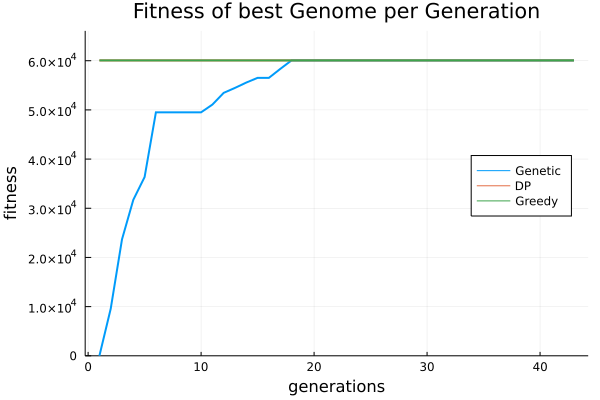
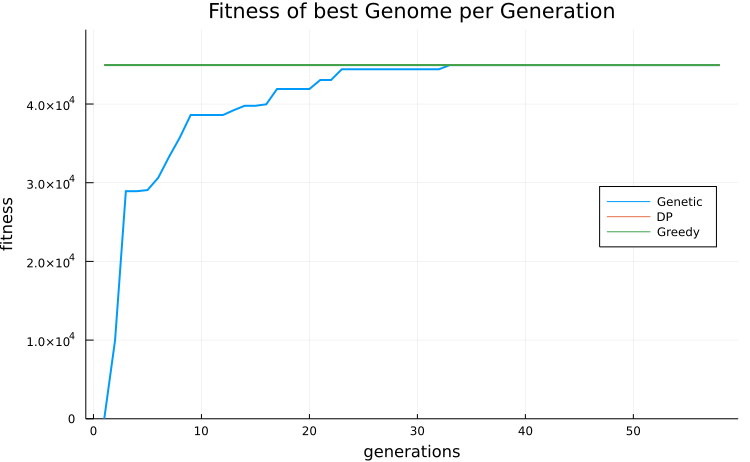
documentation fix, readme+experiments finished

diff --git a/README.md b/README.md
@@ -1,2 +1,153 @@
-# 0-1-Knapsack-Genetic-Algorithms
-Solves the 0-1 knapsack problem using genetic algorithms
+# Genetic Algorithms for the Discrete (0-1) Knapsack Problem
+
+The goal of this repository is to explore and implement in [Julia](https://julialang.org/) a [Genetic Algorithm](https://en.wikipedia.org/wiki/Genetic_algorithm), a subclass of [Evolutionary Algorithms](https://en.wikipedia.org/wiki/Evolutionary_algorithm), that will be used to find a good solution for the [Discrete (0-1) Knapsack problem](https://en.wikipedia.org/wiki/Knapsack_problem#0-1_knapsack_problem). Other approaches ([Brute Force](https://en.wikipedia.org/wiki/Proof_by_exhaustion), [Greedy](https://en.wikipedia.org/wiki/Greedy_algorithm), [Dynamic Programming](https://en.wikipedia.org/wiki/Dynamic_programming)) habe also been implemented in order to set a benchmark for the results of the Genetic algorithm.
+<br> </br>
+
+
+## A little bit about the Problem
+
+The "0-1 Knapsack" problem is an [Integer Programming](https://en.wikipedia.org/wiki/Integer_programming) optimization problem, restricted to the domain {0, 1}. Formally, given n items, their corresponding "weights" **w**, "values" **v** and a "knapsack capacity" W, the goal is to find a binary vector **x** that solves:
+
+maximize **x**<sup>T</sup>**v**
+
+subject to **x**<sup>T</sup>**w** <= W
+
+That is, to choose the items which the sum of their weights does not exceed the knapsack capacity W and simulteanously maximize the total value.
+<br> </br>
+
+
+## Genetic algorithm
+
+The main idea behind Genetic Algorithms is to simulate the process of Natural Selection. An initial population consisting of candidate solutions is created, and then through
+
+- Selection of the fittest
+- Crossovers
+- Mutations
+
+the population gets updated so that every new generation inherits features from the fit candidates,
+those with the highest fitness (score). In the 0-1 Knapsack problem, the fitness of a solution is 0 if the solution is invalid (exceeds knapsack capacity), else the sum of the values selected by it.
+
+The very nature of the Knapsack problem allows us to frame a genome (candidate solution) as a binary vector, which comes in as very handy for the processes mentioned above.
+
+There are many approaches to genetic algorithms, some of them discussed here
+- [Improvements in Genetic Algorithms](https://www.researchgate.net/publication/3102588_Improvements_in_Genetic_Algorithms)
+- [Genetic algorithms with multi-parent recombination](https://www.researchgate.net/publication/220701605_Genetic_algorithms_with_multi-parent_recombination)
+
+The key concept, which has also been [implemented](src/algorithms/genetic.jl) in this repo, is the idea of [Elitism](https://en.wikipedia.org/wiki/Genetic_algorithm#Elitism). Elitism suggets that a fraction of the fittest genomes should survive "as is" in the next generation. This allows for more valid candidate solutions to be propagated in the population, thus reducing the amount of the invalid ones. We will see later the differences in results.
+<br> </br>
+
+### Hyperparameters of the Genetic Algorithm
+
+- *Population Size*: The number of genomes that make up the whole population.
+- *Initialize with zeros*: True if the bits of all the genomes should be initialized to 0. Else they get initialized randomly (unstable for high weights).
+- *Max Generations*: The number of iterations to perform (can be shortened by using Early Stopping).
+- *Threshold*: Used for early stopping; Denotes the minimum value which the best fitness should increase to be considered as progress.
+- *Patience*: Used for early stopping. The number of generations (iterations) to wait for progress. If achieved, then the algorithm stops.
+- *Elitism Amount*: The number of genomes that pass to the next generation, remaining untouched.
+- *Number of Mutations*: The number of genome mutations to perform in mutation step.
+- *Mutation Probability*: The probability that a bit of a genome gets mutated during the mutation step, if selected.
+<br> </br>
+
+
+## Other approaches
+
+- [Brute force](src/algorithms/brute_force.jl)
+    
+    Enumerate all the possible solutions. There are n items totally, where each can either be selected or not. Thus, there are 2 possibilities for every item, giving an exponential
+    complexity: O(2<sup>n</sup>).
+
+- [Greedy](src/algorithms/greedy.jl)
+
+    Sort all items by the key: weight/value in a descending order. Then start picking the items
+    in an ascending order, until there is no more space in the knapsack or the items have finished.
+    The complexity of this algorithm is: O(nlon) (because of the sorting). Note that this algorithm
+    will give always the best solution for continuous (fractional) Knapsack problem. In the discrete, it will only give an approximation.
+
+- [Dynamic Programming](src/algorithms/dynamic_programming.jl)
+
+    The 0-1 Knapsack problem has 2 properties that allow it to be solved using DP methods:
+
+    - Optimal substructure
+    - Independent sub-problems
+
+    Using an optimal solution for the problem with (n-1) items and all the weights up to W, we can quickly dedude the optimal solution for the problem with n items using the formula:
+
+    OPT(n, W) = max(OPT(n-1, W - weight[n]) + value[n], OPT(n-1, W))
+
+    The complexity of this algorithm is O(nW).
+<br> </br>
+
+
+## Experiments
+
+Firstly, let's get a taste of how slow the Brute-Force search is:
+<p align="center">
+  <img src="plots/bf_knapsack_runtime.png"/>
+</p>
+
+Yeap, no need to explain.
+
+Let's now see the runtime of the Greedy, DP and Genetic-Algorithm methods, for W = 10000:
+<p align="center">
+  <img src="plots/dp_vs_genetic_knapsack_runtime.png"/>
+</p>
+As the number of items increase, DP gets progressiively slower. The greedy method is the fastest by far, while the genetic-algorithm slowly decreases it's performance over time.
+<br> </br>
+
+Regarding the accuracies of the solutions found:
+<p align="center">
+  <img src="plots/greedy_dp_genetic_knapsack_score_accuracy.png"/>
+</p>
+The greedy algorithm does a good job at finding almost-optimal solutions. The genetic algorithm struggles as the number of items increases. This is to be expected, as
+the population size was constant throughout all these experiments (1000). Increasing it would decrease speed, but increase accuracy over larger inputs.
+<br> </br>
+
+Let's now see how close the solutions found were to the actual optimal solutions:
+<p align="center">
+  <img src="plots/greedy_dp_genetic_knapsack_solution_accuracy.png"/>
+</p>
+Both the greedy and the genetic-algorithm seem to converge to sub-optimal solutions. They get stuck in local optima, which are hard to get away from.
+<br> </br>
+
+But is it normal for the Genetic algorithm to be underperforming compared to the Greedy?
+Well, it depends on the very nature of the problem. For example. supposing we have we
+have a knapsack with capacity W = 100 and n = 2 items with:
+
+
+Properties | Item 1 | Item 2 |
+---------- | ------ |:------ |
+weights    | 2      | 99     |
+values     | 3      | 99     |
+
+that is, the optimization problem:
+
+maximize 3x<sub>1</sub> + 99x<sub>2</sub>
+
+subjecto to 2x<sub>1</sub> + 99x<sub>2</sub> <= 100
+
+The greedy algorithm will pick just item 1, having a total value of 3, which if far from the optimal value of 99, attaining by just picking Item 2. We can see that these bottleneck occur when the weights of the items are very close to the capacity of the knapsack W.
+Rerunning some experiments with higher item weights and for different values of the hyperparameters of the Genetic Algorithm, yields the following results:
+
+
+- W = 1000, n_items = 1000, population = 1000
+<p align="center">
+  <img src="plots/W_1000_items_1000_population_1000.png"/>
+</p>
+
+- W = 1000, n_items = 1000, population = 10000
+<p align="center">
+  <img src="plots/W_1000_items_1000_population_10000.png"/>
+</p>
+
+- W = 10000, n_items = 100, population = 1000
+<p align="center">
+  <img src="plots/W_10000_items_100_population_1000.png"/>
+</p>
+
+- W = 10000, n_items = 100, population = 10000
+<p align="center">
+  <img src="plots/W_10000_items_100_population_10000.png"/>
+</p>
+<br> </br>
+
+It is clear to see that in these examples the Genetic algorithm surpasses the greedy algorithm in few iterations, by achieving at least as good results as the greedy, and sometimes better. These results are expected.
